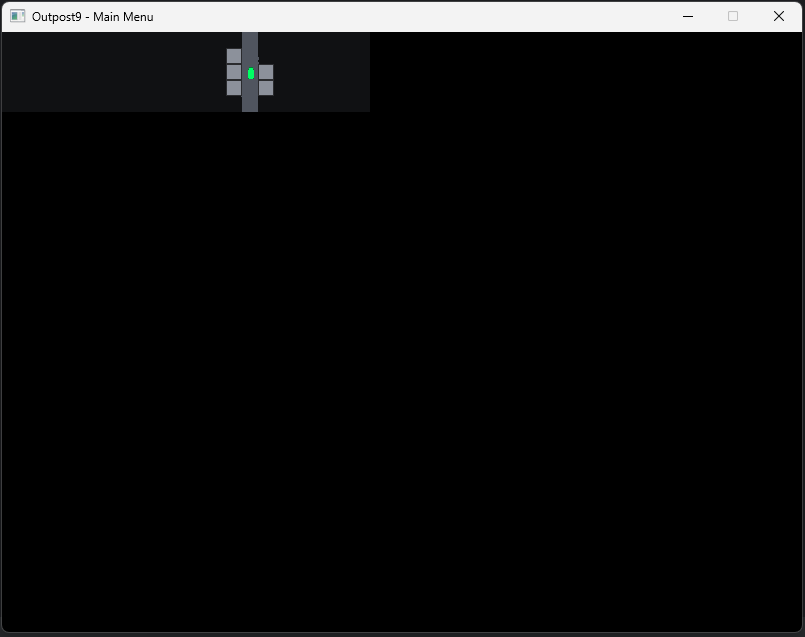
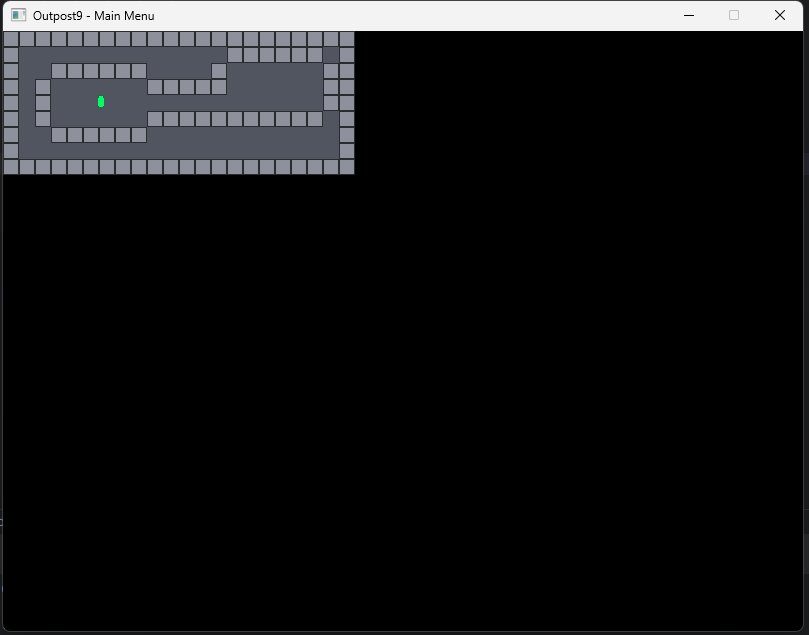
Draw entire level so I can verify generation and update screenshot

Changed region(s): [[0.0, 0.0, 1.0, 0.9874], [0.0, 0.9874, 0.9938, 1.0]]

diff --git a/main.go b/main.go
@@ -284,7 +284,7 @@ func (g *Game) Draw(screen renderer.Image) {
 	g.drawWallsToTexture(g.wallTexture)
 
 	// Step 3: Apply shadow shader - darkens occluded areas
-	if ebitenImg, ok := screen.(*ebitenrenderer.EbitenImage); ok && g.shadowShader != nil {
+	/**if ebitenImg, ok := screen.(*ebitenrenderer.EbitenImage); ok && g.shadowShader != nil {
 		ebitenScreen := ebitenImg.GetEbitenImage()
 
 		// DEBUG: Log player position (throttle to ~1/sec to avoid spam)
@@ -300,7 +300,7 @@ func (g *Game) Draw(screen renderer.Image) {
 		}
 		opts.Images[0] = g.wallTexture
 		ebitenScreen.DrawRectShader(g.screenWidth, g.screenHeight, g.shadowShader, opts)
-	}
+	}*/
 
 	// Step 4: Draw walls that have clear line of sight ON TOP of shadows
 	g.drawVisibleWalls(screen)
@@ -572,9 +572,9 @@ func (g *Game) drawVisibleWalls(screen renderer.Image) {
 				}
 			}
 
-			if !anyVisible {
+			/*if !anyVisible {
 				continue // Not visible, don't draw
-			}
+			}*/
 
 			// Get the wall tile at this position
 			tileName, err := g.gameMap.GetTileAt(tileCoord.X, tileCoord.Y)
